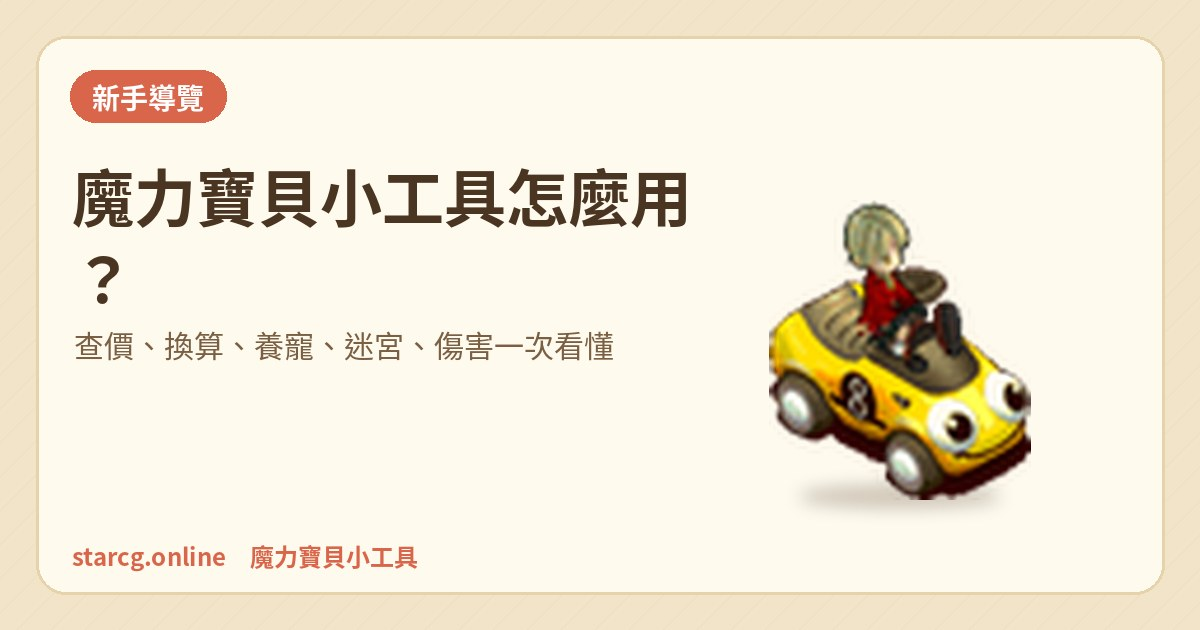
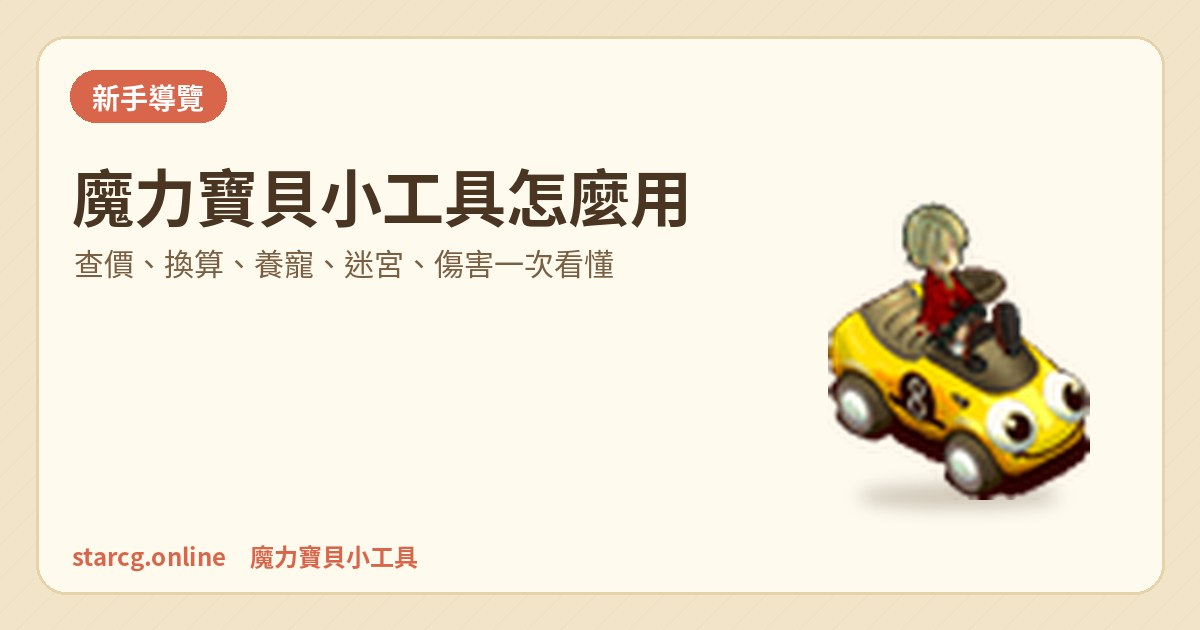
封面圖角色改為自動排版避免重疊，重做兩篇封面；README 加發文圖片檢查清單
Claude-Session: https://claude.ai/code/session_015zE4E5T7154vbHseJrngyz

diff --git a/README.md b/README.md
@@ -178,3 +178,8 @@ python3 tests/seo_check.py dist https://starcg.online
 
 - 圓體字型子集：jf open 粉圓（SIL OFL 1.1）、Gowun Dodum（SIL OFL 1.1），依授權改名為 StarRound／StarRoundKO，授權全文在 `src/assets/fonts/`。
 - 寵物圖片與圖鑑資料來自星詠攻略網；本站為非官方玩家工具站。
+
+### 發文後圖片檢查清單（每次發文都要做）
+- 封面／文內圖用看圖方式逐張打開確認：角色不可互相重疊或被裁切、標題不要孤字換行（單獨一個「？」）、文字不超出卡片。
+- 封面多個角色時由右往左依實際寬度加間距排列，不要手動指定座標。
+- 確認文章頁圖片都載得出來（naturalWidth > 0）、手機版不橫向溢出。
